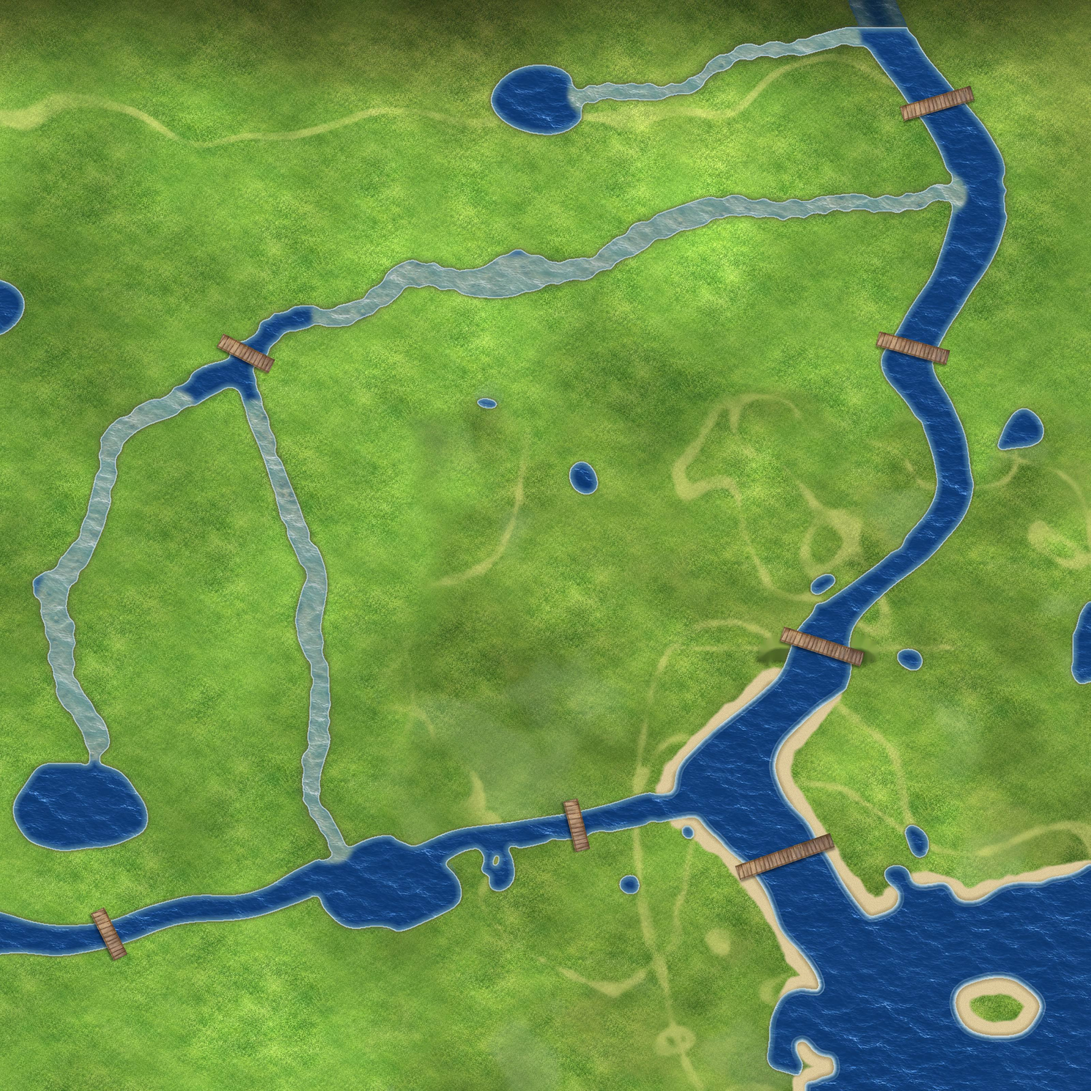
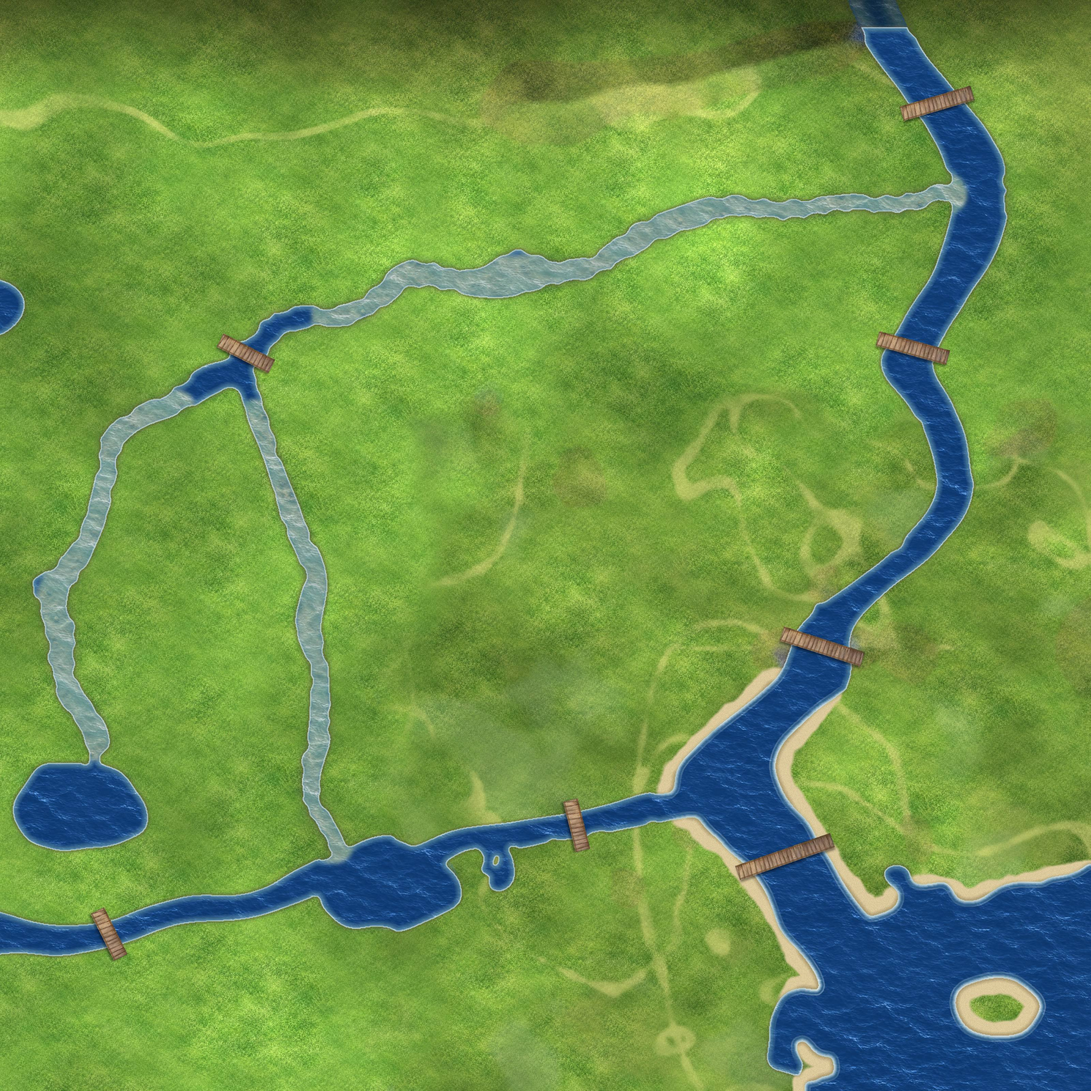
按用户圈选：紫色抹掉地面残留花纹，绿色删水改草地，红色圈内删除树木花草
Claude-Session: https://claude.ai/code/session_011WrGna6yNwTfpmyp4CxMHs

diff --git a/tools/rebuild_nature.py b/tools/rebuild_nature.py
@@ -30,6 +30,22 @@ BX0,BY0,BX1,BY1=2706,924,2892,974
 bmk=(np.array(Image.open(ROOT+'/art_src/map/bridge_wood.png'))[...,3]>0).astype(np.uint8)
 bmk=cv2.dilate(bmk,np.ones((7,7),np.uint8)); bm2=np.zeros((H*HD,W*HD),np.uint8); bm2[BY0*HD:BY1*HD,BX0*HD:BX1*HD]=bmk
 G=cv2.inpaint(G,bm2,9,cv2.INPAINT_TELEA)
+# 用户圈的编辑（art_src/map/edits.json）：紫=抹掉地面花纹，绿=删掉水，红=删掉圈内植物（后面处理）
+ED_=json.load(open(ROOT+'/art_src/map/edits.json'))
+def polym(c):
+    m=np.zeros((H,W),np.uint8)
+    for L_ in ED_:
+        if L_['颜色']==c and len(L_['点'])>=3: cv2.fillPoly(m,[np.array(L_['点'],np.int32)],1)
+    return m>0
+REDM=polym('#ff3040'); fixm=polym('#9040ff')|polym('#20d060'); dryM=polym('#20d060')
+if fixm.any():
+    sm=cv2.resize(G,(W,H),interpolation=cv2.INTER_AREA); mk=dil(fixm,4).astype(np.uint8)
+    rep_=cv2.inpaint(sm,mk,12,cv2.INPAINT_TELEA); big_=cv2.resize(rep_,(W*HD,H*HD),interpolation=cv2.INTER_LINEAR)
+    gr_=np.array(Image.open(ROOT+'/art_src/map/grass.png').convert('RGB')).astype(np.float32); gt=cv2.resize(gr_,(900,900))
+    tex_=gt[np.arange(H*HD)[:,None]%900,np.arange(W*HD)[None,:]%900]; tl=tex_-tex_.mean((0,1))
+    M2=cv2.GaussianBlur(cv2.resize(mk,(W*HD,H*HD),interpolation=cv2.INTER_NEAREST).astype(np.float32),(0,0),4)[...,None]
+    G=np.clip(G*(1-M2)+(big_+tl*0.6)*M2,0,255).astype(np.uint8)
+    C0[dil(dryM,4)]=0
 g=cv2.resize(G,(W,H),interpolation=cv2.INTER_AREA).astype(int)
 blue=g[...,2]>g[...,1]+5
 wat0=((C0>=1)&blue)|(C0==2)
@@ -337,6 +353,7 @@ for j in rng.permutation(len(rx))[:4000]:
         WR.append((x,y))
         put('wr%d'%rng.integers(1,5),x,y,10); nw+=1
 for k,x,y in [('rf1',1232,1392),('rf3',1246,1360),('rf4',1214,1352)]: put(k,x,y,12)
+objs=[o for o in objs if not (REDM[min(H-1,o[2]),min(W-1,o[1])] and o[0][:2] in ('br','pi','bu','tu','fl','wc','wr','wl','dr'))]
 J['objs']=objs; J['size']={k:v for k,v in J['size'].items() if k in {o[0] for o in objs} or True}
 json.dump(J,open(ROOT+'/data/world.json','w'),separators=(',',':'))
 print('物件总数',len(objs),'河中石',nw)
